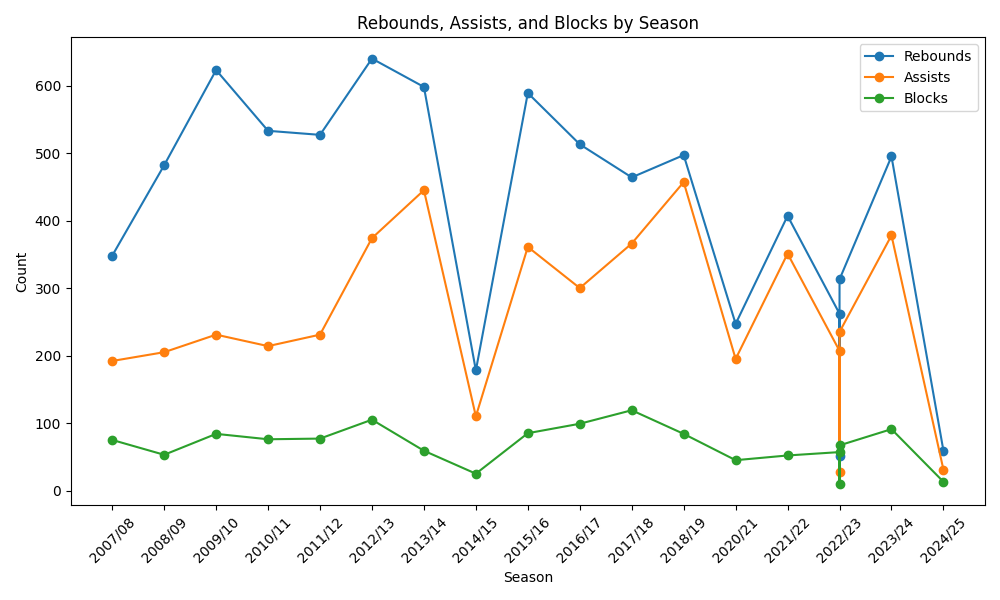
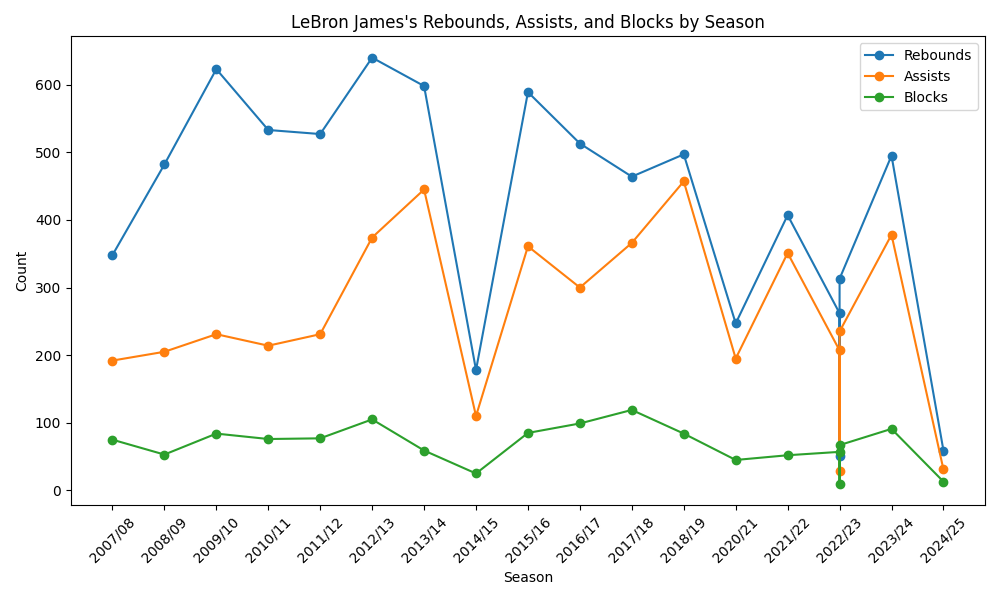
Final Project_step 1

diff --git a/Generate_Visuals_New.py b/Generate_Visuals_New.py
@@ -1,0 +1,100 @@
+import matplotlib.pyplot as plt
+import seaborn as sns
+from Data_Preprocessing import preprocess_data
+import os
+
+def generate_all_visuals(input_csv, player_name):
+    df = preprocess_data(input_csv)
+
+    static_folder = "static"
+    if not os.path.exists(static_folder):
+        os.mkdir(static_folder)
+
+    graph_filenames = {}
+
+    # Career Points Bar Chart
+    plt.figure(figsize=(10, 6))
+    sns.barplot(x=df["SEASON_ID"], y=df["PTS"])
+    plt.title(f"{player_name}'s Career Points by Season")
+    plt.xlabel("Season")
+    plt.ylabel("Total Points")
+    plt.xticks(rotation=45)
+    points_filename = os.path.join(static_folder, "career_points.png")
+    plt.tight_layout()
+    plt.savefig(points_filename)
+    plt.close()
+    graph_filenames["career_points"] = points_filename
+
+    # Shooting Percentages Pie Chart
+    percentages = {
+        "Field Goals": df["FG_PCT"].mean(),
+        "Three-Point FG": df["FG3_PCT"].mean(),
+        "Free Throws": df["FT_PCT"].mean()
+    }
+    plt.figure(figsize=(8, 8))
+    plt.pie(percentages.values(), labels=percentages.keys(), autopct='%1.1f%%', startangle=90)
+    plt.title(f"{player_name}'s Shooting Percentages")
+    percentages_filename = os.path.join(static_folder, "shooting_percentages.png")
+    plt.savefig(percentages_filename)
+    plt.close()
+    graph_filenames["shooting_percentages"] = percentages_filename
+
+    # Core Stats Line Chart per Season
+    plt.figure(figsize=(10, 6))
+    plt.plot(df["SEASON_ID"], df["REB"], label="Rebounds", marker="o")
+    plt.plot(df["SEASON_ID"], df["AST"], label="Assists", marker="o")
+    plt.plot(df["SEASON_ID"], df["BLK"], label="Blocks", marker="o")
+    plt.title(f"{player_name}'s Rebounds, Assists, and Blocks by Season")
+    plt.xlabel("Season")
+    plt.ylabel("Count")
+    plt.xticks(rotation=45)
+    plt.legend()
+    core_stats_filename = os.path.join(static_folder, "core_stats.png")
+    plt.tight_layout()
+    plt.savefig(core_stats_filename)
+    plt.close()
+    graph_filenames["core_stats"] = core_stats_filename
+
+    # Correlation Heatmap
+    plt.figure(figsize=(10, 8))
+    sns.heatmap(df[["PTS", "REB", "AST", "STL", "BLK"]].corr(), annot=True, cmap="coolwarm", fmt=".2f")
+    plt.title(f"{player_name}'s Correlation Heatmap")
+    heatmap_filename = os.path.join(static_folder, "correlation_heatmap.png")
+    plt.savefig(heatmap_filename)
+    plt.close()
+    graph_filenames["correlation_heatmap"] = heatmap_filename
+
+    # Scatter Plot for Assists vs Points
+    plt.figure(figsize=(8, 6))
+    sns.scatterplot(x=df["PTS"], y=df["AST"])
+    plt.title(f"{player_name}'s Points vs Assists")
+    plt.xlabel("Total Points")
+    plt.ylabel("Total Assists")
+    scatter_filename = os.path.join(static_folder, "points_vs_assists.png")
+    plt.tight_layout()
+    plt.savefig(scatter_filename)
+    plt.close()
+    graph_filenames["points_vs_assists"] = scatter_filename
+
+    # Cluster Plot For Points, Rebounds, and Assists
+    plt.figure(figsize=(8, 6))
+    sns.scatterplot(x=df["PTS"], y=df["REB"], hue=df["AST"], palette="viridis")
+    plt.title(f"{player_name}'s Cluster Plot: Points, Rebounds, and Assists")
+    plt.xlabel("Total Points")
+    plt.ylabel("Total Rebounds")
+    cluster_filename = os.path.join(static_folder, "cluster_plot.png")
+    plt.tight_layout()
+    plt.savefig(cluster_filename)
+    plt.close()
+    graph_filenames["cluster_plot"] = cluster_filename
+
+    return graph_filenames
+
+# This block is for testing purposes
+if __name__ == "__main__":
+    input_csv = "player_stats.csv"
+    player_name = "LeBron James"  # Replace with the player's name
+    graph_filenames = generate_all_visuals(input_csv, player_name)
+    print("Visuals generated and saved to the static folder:")
+    for name, filename in graph_filenames.items():
+        print(f"{name}: {filename}")

diff --git a/Website.py b/Website.py
@@ -1,0 +1,29 @@
+from flask import Flask, render_template, request, redirect, url_for
+from Generate_Visuals_New import generate_all_visuals
+from Data_Preprocessing import preprocess_data
+from Data_collections_New import get_player_id_from_name, fetch_player_stats_and_save
+
+app = Flask(__name__)
+
+@app.route('/')
+def index():
+    return render_template('index.html')
+
+@app.route('/results', methods=['POST'])
+def results():
+    player_name = request.form.get('player_name')
+
+    # Fetch player ID and stats
+    player_id = get_player_id_from_name(player_name)
+    if not player_id:
+        return render_template('index.html', error=f"Player {player_name} not found.")
+
+    # Save stats to a CSV and generate visuals
+    stats_csv = fetch_player_stats_and_save(player_id)
+    visuals = generate_all_visuals(stats_csv, player_name)
+
+    # Pass visuals to the results template
+    return render_template('results.html', player_name=player_name, visuals=visuals)
+
+if __name__ == '__main__':
+    app.run(debug=True)

diff --git a/Data_collections_New.py b/Data_collections_New.py
@@ -14,8 +14,8 @@ def fetch_player_stats_and_save(player_id, output_file="player_stats.csv"):
     df.to_csv(output_file, index=False)
     return output_file
 
-# Testing the function with a player's name
-player_name = "LeBron James"
+# Ask user for the player's name
+player_name = input("Enter the name of the player: ").strip()
 
 # Get Player ID from name
 player_id = get_player_id_from_name(player_name)
